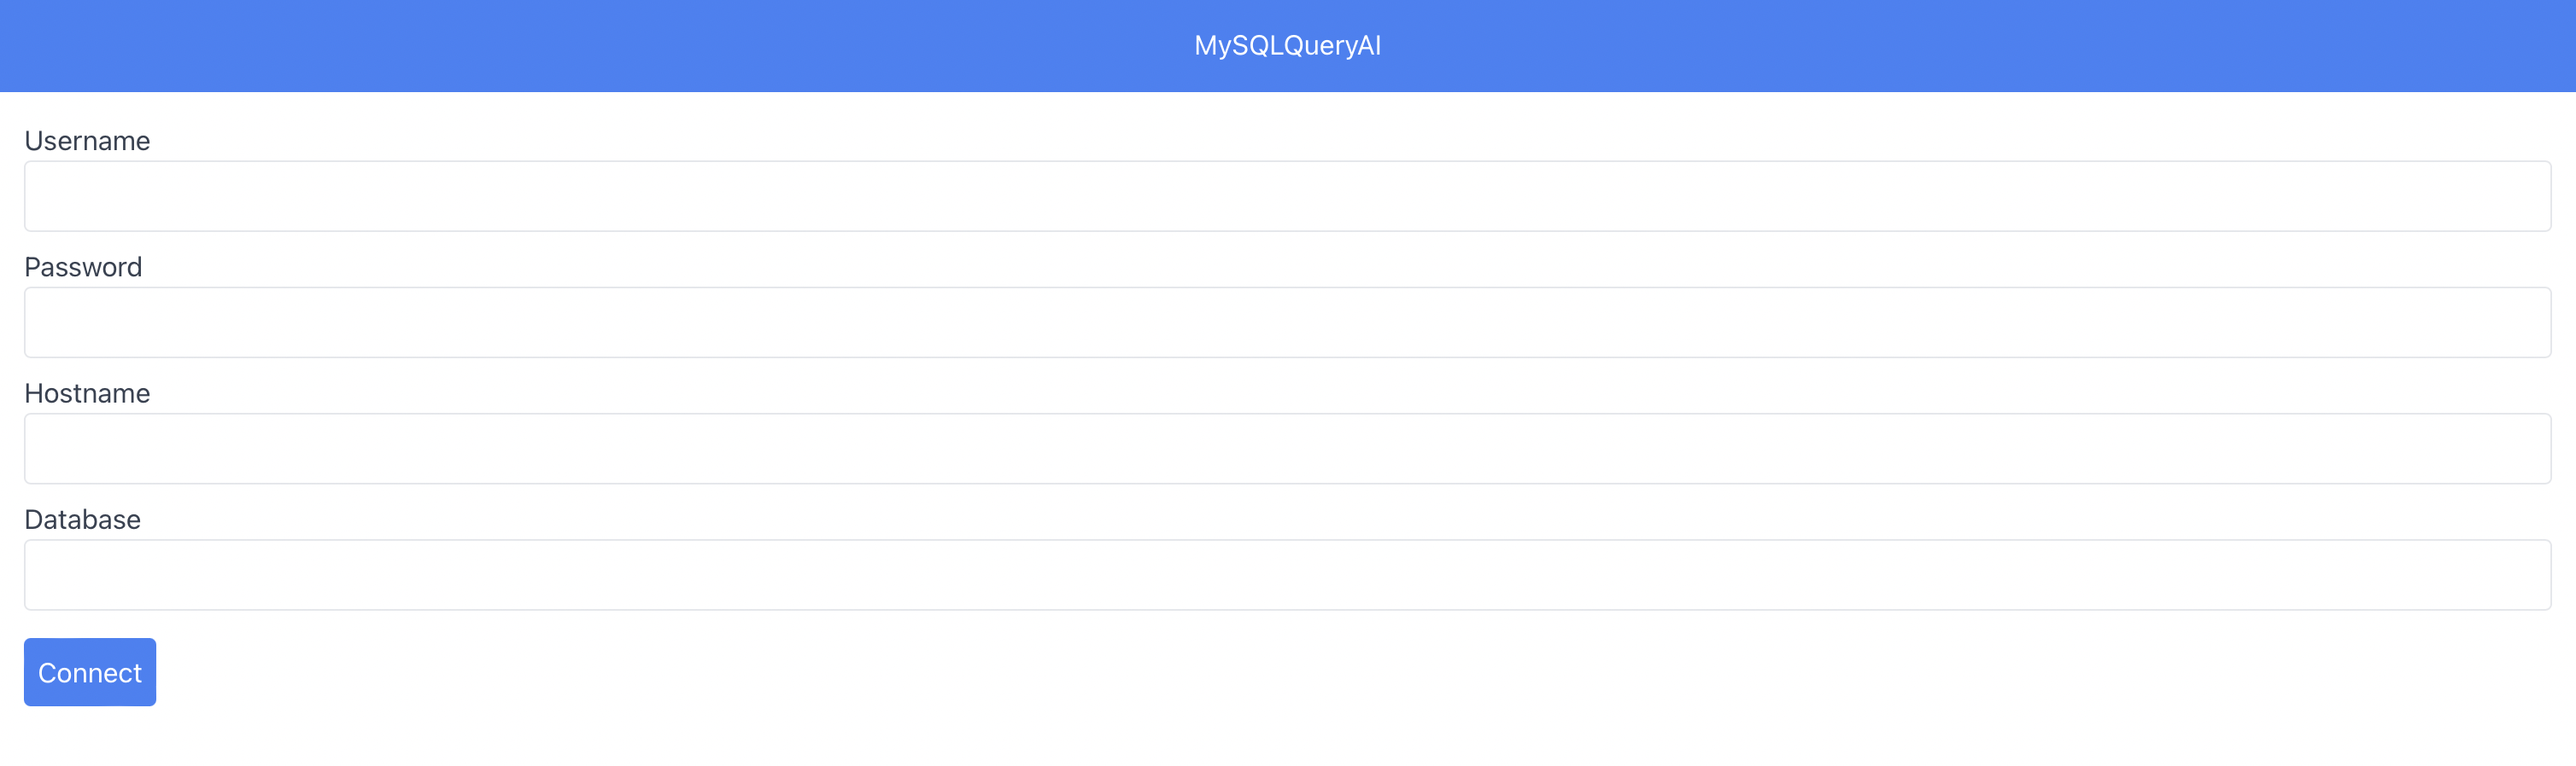
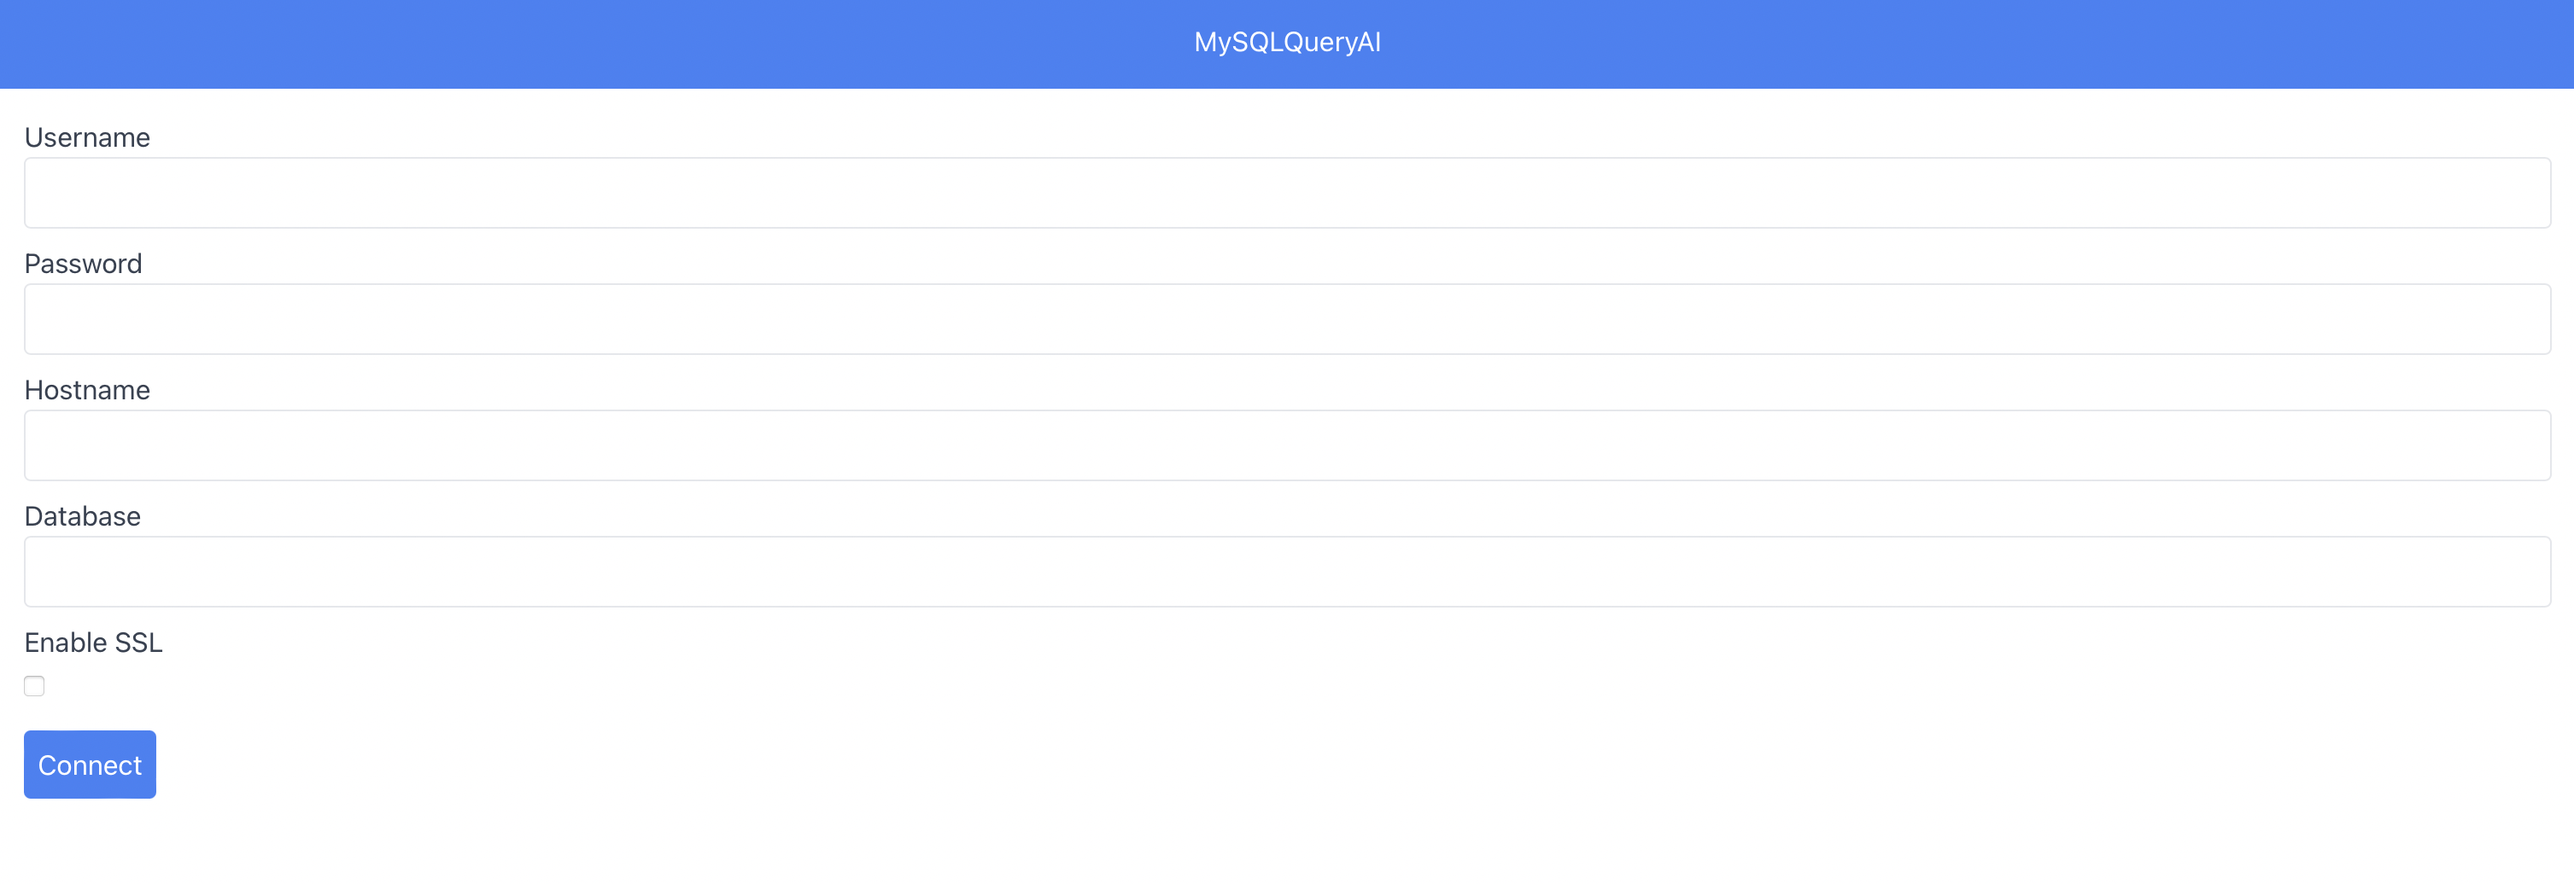
Added SSL connection

diff --git a/src/components/ConnectionForm.js b/src/components/ConnectionForm.js
@@ -5,7 +5,18 @@ function ConnectionForm({ onConnect }) {
   const [password, setPassword] = useState('');
   const [hostname, setHostname] = useState('');
   const [database, setDatabase] = useState('');
+  const [enableSSL, setEnableSSL] = useState(false);
   const [error, setError] = useState(null);
+  const [sslMessage, setSslMessage] = useState('');
+
+  const handleEnableSslChange = (e) => {
+    setEnableSSL(e.target.checked);
+    if (e.target.checked) {
+      setSslMessage('Please ensure SSL_CA, SSL_CERT, and SSL_KEY environment variables are set.');
+    } else {
+      setSslMessage('');
+    }
+  };
 
   const handleSubmit = async (event) => {
     event.preventDefault();
@@ -15,7 +26,8 @@ function ConnectionForm({ onConnect }) {
       username,
       password,
       hostname,
-      database
+      database,
+      enable_ssl: enableSSL
     };
 
     try {
@@ -81,6 +93,16 @@ function ConnectionForm({ onConnect }) {
           required
         />
       </div>
+      <div className="mb-2">
+        <label className="block text-gray-700">Enable SSL</label>
+        <input
+          type="checkbox"
+          checked={enableSSL}
+          onChange={handleEnableSslChange}
+          className="mr-2 leading-tight"
+        />
+      </div>
+      {sslMessage && <p className="text-yellow-500 mt-2">{sslMessage}</p>}
       <button type="submit" className="mt-2 p-2 bg-blue-500 text-white rounded">
         Connect
       </button>

diff --git a/src/components/QueryInput.js b/src/components/QueryInput.js
@@ -132,7 +132,7 @@ function QueryInput({ onGeneratedSql, connectionDetails, onExecute, explainedQue
         className="p-2 bg-purple-500 text-white rounded mb-4"
         disabled={loadingUpdateModel}
       >
-        {loadingUpdateModel ? 'Update Model with DB Structure' : 'Update Model with DB Structure'}
+        {loadingUpdateModel ? 'Relearn DB Schema' : 'Relearn DB Schema'}
       </button>
       <textarea
         value={query}
